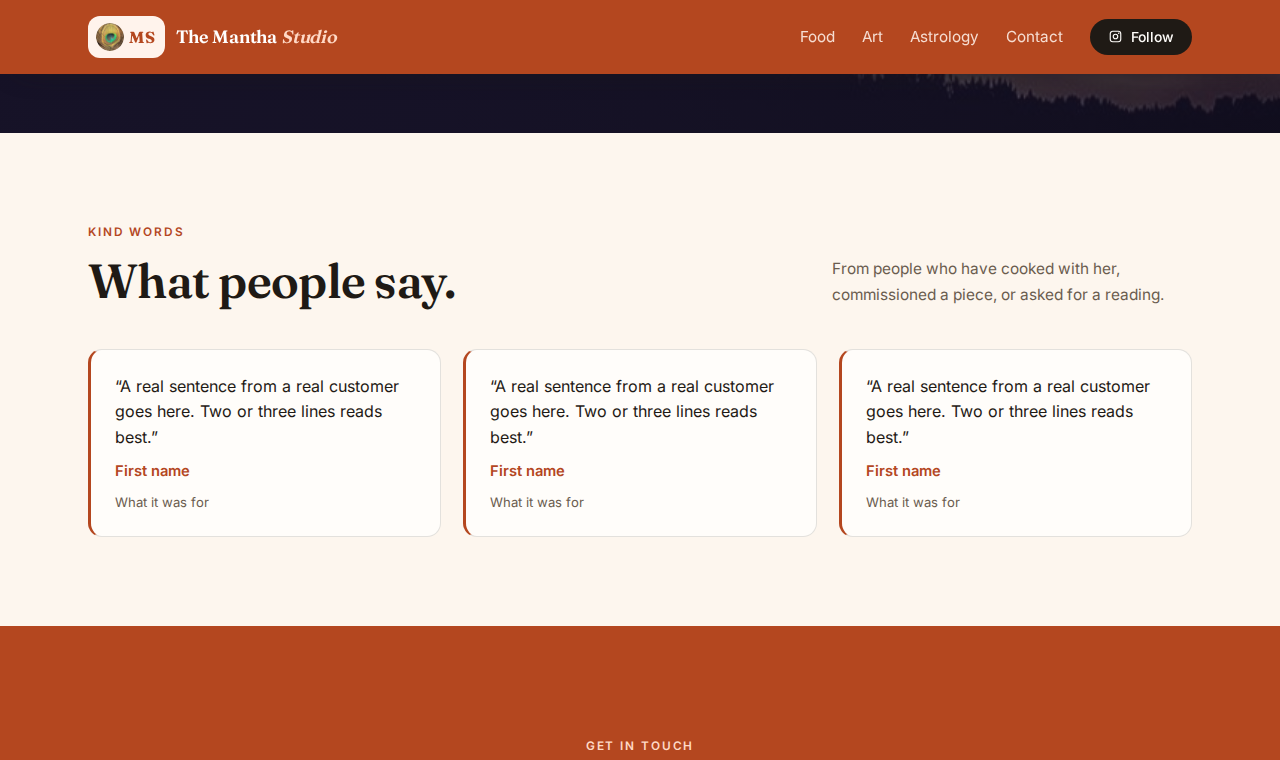
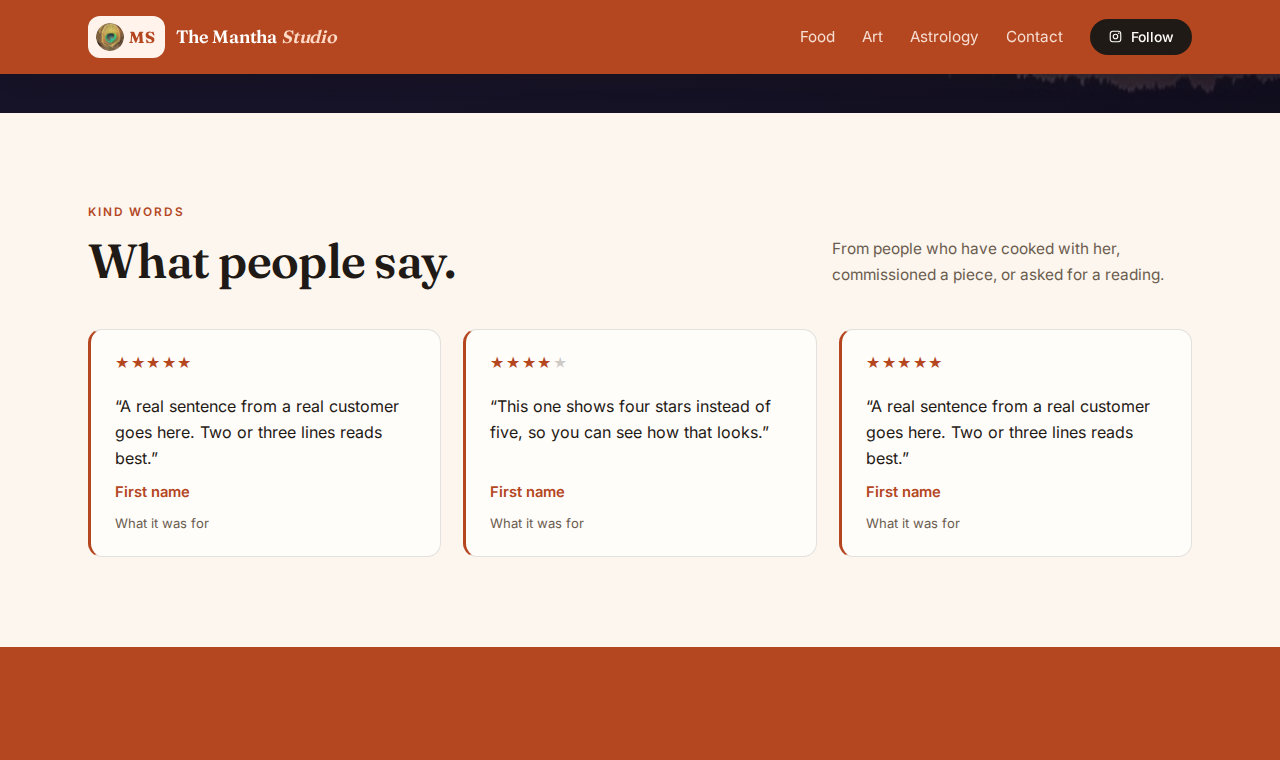
Add the review form page, unlisted and ready to use

diff --git a/review.html b/review.html
@@ -1,0 +1,108 @@
+<!DOCTYPE html>
+<html lang="en">
+<head>
+<meta charset="utf-8">
+<meta name="viewport" content="width=device-width, initial-scale=1">
+<title>Leave a review — The Mantha Studio</title>
+<!-- Unlisted on purpose: not in the menu, not in the sitemap, not indexed.
+     Suvarna sends this link to a customer once the work is finished. -->
+<meta name="robots" content="noindex, nofollow">
+<link rel="preconnect" href="https://fonts.googleapis.com">
+<link rel="preconnect" href="https://fonts.gstatic.com" crossorigin>
+<link href="https://fonts.googleapis.com/css2?family=Fraunces:opsz,wght@9..144,600&family=Inter:wght@400;500;600&display=swap" rel="stylesheet">
+<link rel="icon" href="assets/img/feather-mark.png" type="image/png">
+<link rel="stylesheet" href="assets/style.css">
+</head>
+<body>
+
+<header class="nav" id="nav">
+  <div class="wrap nav-in">
+    <a class="brand" href="index.html">
+      <span class="brand-mark">
+        <img class="feather" src="assets/img/feather-mark.png" alt="" width="28" height="28">
+        <span class="brand-initials">MS</span>
+      </span>
+      <span class="brand-text">The Mantha <em>Studio</em></span>
+    </a>
+  </div>
+</header>
+
+<main class="section">
+  <div class="wrap review-page">
+    <p class="eyebrow">Thank you</p>
+    <h1>Leave a review.</h1>
+    <p class="lede">If you were happy with your reading, your commission or something you cooked,
+    a sentence or two would mean a great deal &mdash; and it helps the next person decide.</p>
+
+    <form class="form" id="review-form"
+          action="https://formsubmit.co/suvarnamantha@icloud.com" method="POST">
+      <!-- the relay's own settings -->
+      <input type="hidden" name="_subject" value="New review — themanthastudio.com">
+      <input type="hidden" name="_template" value="table">
+      <input type="hidden" name="_captcha" value="false">
+      <input type="hidden" name="_next" value="https://themanthastudio.com/thanks-review.html">
+      <!-- bots fill this in, people never see it -->
+      <p class="trap" aria-hidden="true"><label>Leave this empty<input type="text" name="_honey" tabindex="-1" autocomplete="off"></label></p>
+
+      <label>Your first name
+        <input type="text" name="first_name" autocomplete="given-name" placeholder="How you would like to be shown" required>
+      </label>
+
+      <label>What was it for?
+        <select name="what_for" required>
+          <option value="">Choose one&hellip;</option>
+          <option>An astrology reading</option>
+          <option>A commissioned artwork</option>
+          <option>A piece of art I bought</option>
+          <option>Something I cooked from a recipe</option>
+          <option>Something else</option>
+        </select>
+      </label>
+
+      <fieldset class="stars">
+        <legend>Your rating</legend>
+        <div class="star-row">
+          <input type="radio" id="star5" name="rating" value="5 out of 5" required>
+          <label for="star5" title="5 out of 5"><span class="vh">5 out of 5</span></label>
+          <input type="radio" id="star4" name="rating" value="4 out of 5">
+          <label for="star4" title="4 out of 5"><span class="vh">4 out of 5</span></label>
+          <input type="radio" id="star3" name="rating" value="3 out of 5">
+          <label for="star3" title="3 out of 5"><span class="vh">3 out of 5</span></label>
+          <input type="radio" id="star2" name="rating" value="2 out of 5">
+          <label for="star2" title="2 out of 5"><span class="vh">2 out of 5</span></label>
+          <input type="radio" id="star1" name="rating" value="1 out of 5">
+          <label for="star1" title="1 out of 5"><span class="vh">1 out of 5</span></label>
+        </div>
+      </fieldset>
+
+      <label>Your review
+        <textarea name="review" rows="5" placeholder="What you asked for, and how you found it&hellip;" required></textarea>
+      </label>
+
+      <label>Email <span class="opt">optional &mdash; only so Suvarna can thank you</span>
+        <input type="email" name="email" autocomplete="email" placeholder="you@example.com">
+      </label>
+
+      <label class="check">
+        <input type="checkbox" name="permission" value="Yes — may be published with my first name" required>
+        <span>I am happy for this to appear on themanthastudio.com, shown with my first name only.</span>
+      </label>
+
+      <button class="btn btn-primary btn-block" type="submit">Send my review</button>
+
+      <p class="form-note">Nothing is published automatically. Suvarna reads every review first and
+      chooses what goes on the site. Your email address is never shown. The form is delivered by
+      FormSubmit, which passes the message to her inbox and does not keep it.</p>
+    </form>
+  </div>
+</main>
+
+<footer class="foot">
+  <div class="wrap foot-in">
+    <span class="brand-text foot-brand">The Mantha <em>Studio</em></span>
+    <p class="foot-fine">&copy; 2026 The Mantha Studio &middot; Suvarna Mantha.</p>
+  </div>
+</footer>
+
+</body>
+</html>

diff --git a/assets/style.css b/assets/style.css
@@ -313,6 +313,58 @@ p{margin:0 0 1rem}
   html{scroll-behavior:auto}
 }
 
+/* ---------- reviews ---------- */
+.review-grid{
+  list-style:none;margin:0;padding:0;display:grid;gap:1.4rem;
+  grid-template-columns:repeat(auto-fit,minmax(min(100%,270px),1fr));
+}
+.review{
+  background:var(--paper);border:1px solid var(--line);border-left:3px solid var(--accent);
+  border-radius:var(--r);padding:1.5rem 1.5rem 1.35rem;
+  display:flex;flex-direction:column;gap:.55rem;
+}
+.review blockquote{margin:0;font-size:1rem;line-height:1.6;color:var(--ink)}
+.review cite{font-style:normal;font-weight:600;font-size:.92rem;color:var(--accent);margin-top:auto}
+.review-for{font-size:.82rem;color:var(--ink-soft)}
+
+/* stars shown on a review card. The filled ones are written in the HTML,
+   so adding a review is still just typing - no script decides anything. */
+.review-stars{font-size:1rem;letter-spacing:.1em;color:var(--accent);line-height:1}
+.review-stars .off{color:rgba(31,26,21,.22)}
+
+/* ---------- the review form (review.html) ---------- */
+.review-page{max-width:46rem}
+.review-page .lede{margin-bottom:2.2rem}
+.review-page .form{max-width:none}
+
+.vh{position:absolute;width:1px;height:1px;overflow:hidden;clip:rect(0 0 0 0);white-space:nowrap}
+
+.stars{border:0;margin:0;padding:0}
+.stars legend{
+  font-size:.86rem;font-weight:500;color:var(--ink-soft);
+  padding:0;margin-bottom:.4rem;
+}
+/* The inputs sit 5-4-3-2-1 in the HTML and are reversed on screen, so that
+   "checked" can reach the lower stars with a sibling selector. */
+.star-row{display:flex;flex-direction:row-reverse;justify-content:flex-end;gap:.15rem}
+.star-row input{position:absolute;opacity:0;width:1px;height:1px}
+.star-row label{
+  cursor:pointer;font-size:2rem;line-height:1;color:rgba(31,26,21,.22);
+  transition:color .12s ease;padding:0 .05rem;
+}
+.star-row label::before{content:"\2605"}
+.star-row label:hover,
+.star-row label:hover ~ label,
+.star-row input:checked ~ label{color:var(--accent)}
+.star-row input:focus-visible + label{outline:2px solid var(--accent);outline-offset:2px;border-radius:4px}
+
+.check{
+  display:flex;align-items:flex-start;gap:.7rem;
+  font-size:.92rem;line-height:1.5;color:var(--ink-soft);
+  font-weight:400;
+}
+.check input{flex:none;width:18px;height:18px;margin-top:.15rem;accent-color:var(--accent)}
+
 /* ---------- thank-you page ---------- */
 .thanks{padding:clamp(4rem,10vw,8rem) 0;min-height:60vh;display:grid;align-items:center}
 .thanks-in{max-width:62ch}

diff --git a/thanks-review.html b/thanks-review.html
@@ -1,0 +1,52 @@
+<!DOCTYPE html>
+<html lang="en">
+<head>
+<meta charset="utf-8">
+<meta name="viewport" content="width=device-width, initial-scale=1">
+<title>Thank you — The Mantha Studio</title>
+<meta name="robots" content="noindex">
+<link rel="preconnect" href="https://fonts.googleapis.com">
+<link rel="preconnect" href="https://fonts.gstatic.com" crossorigin>
+<link href="https://fonts.googleapis.com/css2?family=Fraunces:opsz,wght@9..144,600&family=Inter:wght@400;500&display=swap" rel="stylesheet">
+<link rel="icon" href="assets/img/feather-mark.png" type="image/png">
+<link rel="stylesheet" href="assets/style.css">
+</head>
+<body>
+
+<header class="nav" id="nav">
+  <div class="wrap nav-in">
+    <a class="brand" href="index.html">
+      <span class="brand-mark">
+        <img class="feather" src="assets/img/feather-mark.png" alt="" width="28" height="28">
+        <span class="brand-initials">MS</span>
+      </span>
+      <span class="brand-text">The Mantha <em>Studio</em></span>
+    </a>
+  </div>
+</header>
+
+<main class="thanks">
+  <div class="wrap thanks-in">
+    <p class="eyebrow">Your review</p>
+    <h1>Thank you.</h1>
+    <p class="lede">That has gone straight to Suvarna, and it genuinely helps. She reads every
+    review herself and will decide what goes on the site.</p>
+    <p class="thanks-note">If you would like to change anything you wrote, or you would rather it
+    was not used after all, just message her on <a href="https://wa.me/6281291612480">WhatsApp</a>
+    or write to <a href="mailto:suvarnamantha@icloud.com">suvarnamantha@icloud.com</a>.</p>
+    <div class="hero-cta">
+      <a class="btn btn-primary" href="index.html">Back to the studio</a>
+      <a class="btn btn-ghost" href="https://www.instagram.com/manthas_food_palette/" target="_blank" rel="noopener">See her latest work</a>
+    </div>
+  </div>
+</main>
+
+<footer class="foot">
+  <div class="wrap foot-in">
+    <span class="brand-text foot-brand">The Mantha <em>Studio</em></span>
+    <p class="foot-fine">&copy; 2026 The Mantha Studio &middot; Suvarna Mantha.</p>
+  </div>
+</footer>
+
+</body>
+</html>
